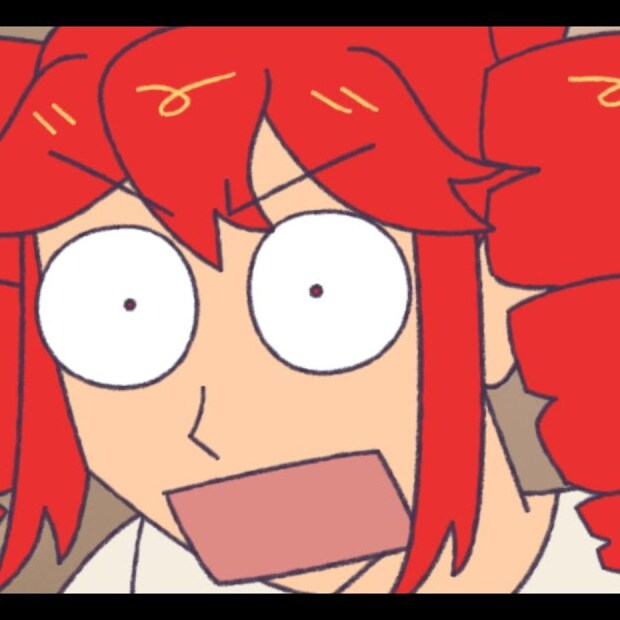
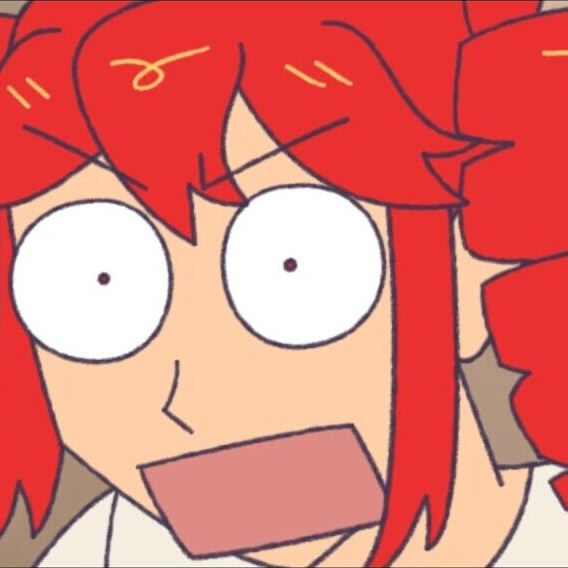
fix: trim teto black bars, center in right column

diff --git a/presentations/monads/slides.md b/presentations/monads/slides.md
@@ -624,7 +624,9 @@ it's monads all the way down.
 
 <v-click at="1">
 
-<img src="./images/teto.jpg" class="w-full rounded mt-8" />
+<div class="flex items-center justify-center h-full">
+<img src="./images/teto.jpg" class="w-80 rounded" />
+</div>
 
 </v-click>
 
